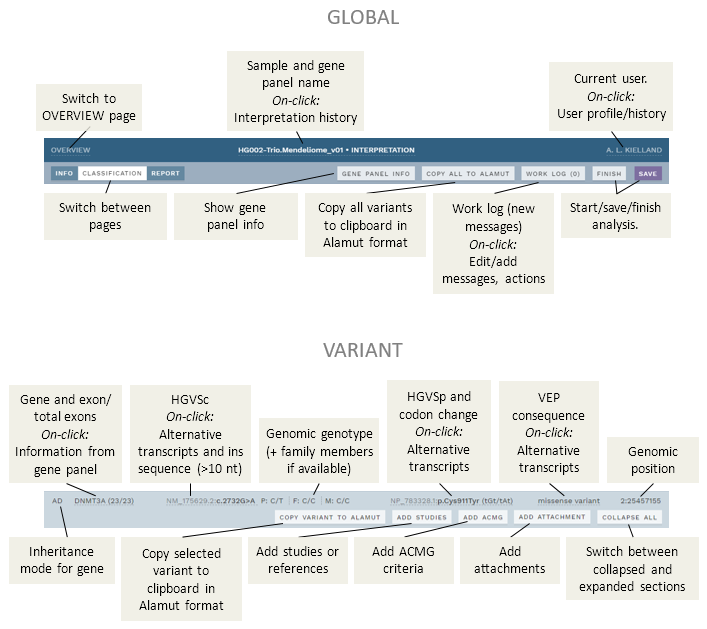
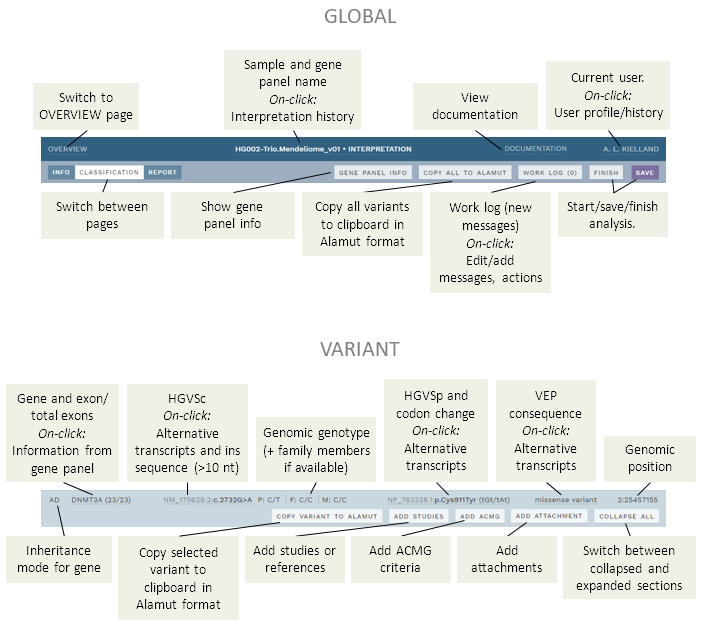
[docs] Update docs for v1.8, added changes for MR !332.

diff --git a/docs/releasenotes/README.md b/docs/releasenotes/README.md
@@ -54,6 +54,8 @@ In addition, it is now also possible to use allele ratio (alternative allele rea
 - Made collision warnings below the top bar sticky and collapsible.
 <!-- MR !325 -->
 - Increased number of retrieved reference search results. 
+<!-- MR !332 -->
+- Added "Documentation" link to all pages.
 <!-- MR !320 -->
 - Fixed bug causing inability to finish an analysis workflow when all variants were marked as "Not relevant".
 <!-- MR !326 -->
